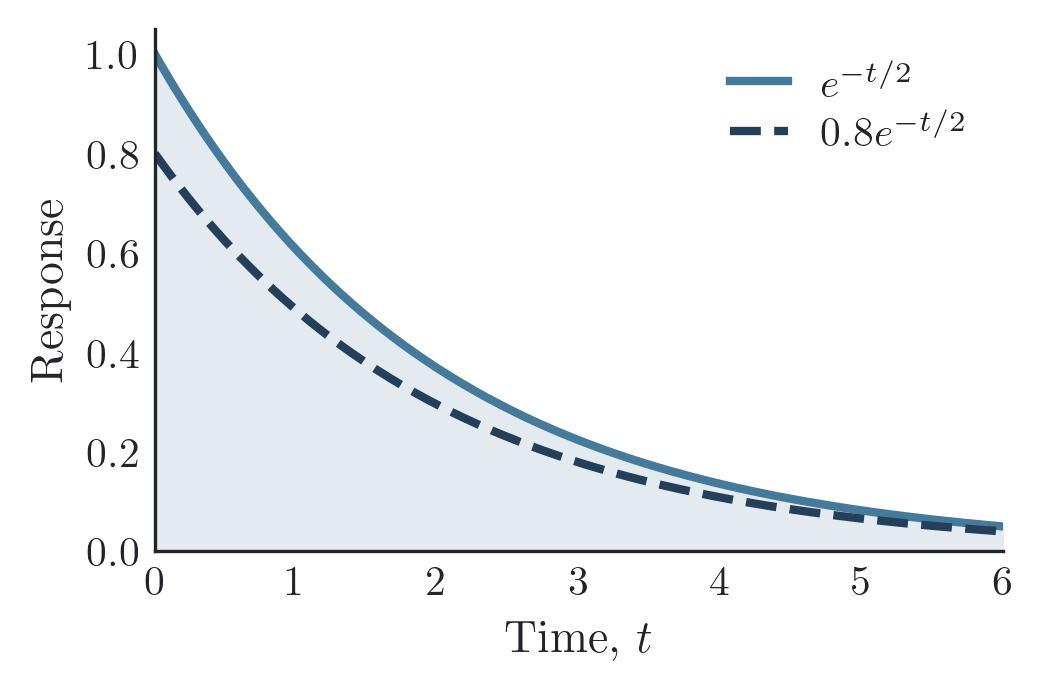
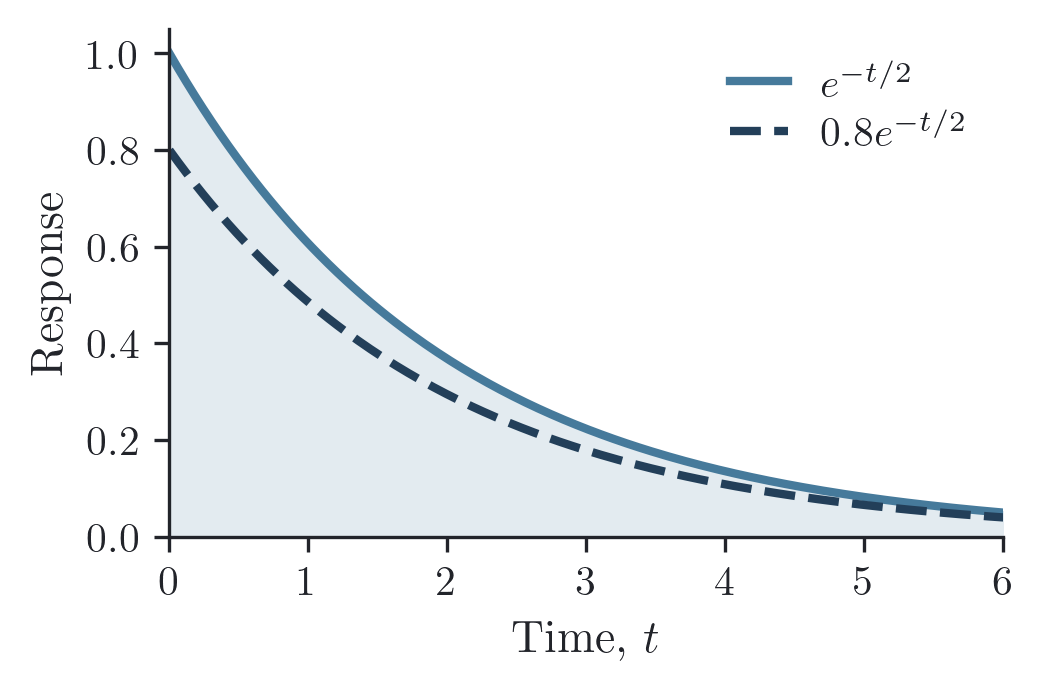
examples examples examplessssssssssssssssss

Changed region(s): [[0.0307, 0.0304, 0.9818, 0.8826], [0.4909, 0.8826, 0.6443, 0.9435]]

diff --git a/scripts/render_style_comparison.py b/scripts/render_style_comparison.py
@@ -1,0 +1,45 @@
+"""Render default Matplotlib beside reiplotlib for the README opening."""
+
+from pathlib import Path
+
+import matplotlib as mpl
+
+mpl.use("Agg")
+
+import matplotlib.pyplot as plt
+import numpy as np
+
+import reiplotlib as rpl
+
+
+def main():
+    destination = Path(__file__).resolve().parents[1] / "docs/images"
+    destination.mkdir(parents=True, exist_ok=True)
+    x = np.linspace(0, 10, 300)
+    with mpl.rc_context(mpl.rcParamsDefault):
+        fig = plt.figure(figsize=(7.5, 2.6), layout="constrained")
+        grid = fig.add_gridspec(1, 3, width_ratios=(1, 0.08, 1))
+        default = fig.add_subplot(grid[0])
+        arrow = fig.add_subplot(grid[1])
+        arrow.axis("off")
+        arrow.text(0.5, 0.5, r"$\rightarrow$", ha="center", va="center", fontsize=20)
+        for tau in (1.5, 3.0, 6.0):
+            y = np.exp(-x / tau) * np.cos(np.pi * x / 2)
+            default.plot(x, y, label=rf"$\tau={tau:g}$")
+        default.set(title="Matplotlib", xlabel=r"Time, $t$", ylabel=r"$C(t)$")
+        default.legend()
+
+        with rpl.rc_context():
+            styled = fig.add_subplot(grid[2])
+            for tau in (1.5, 3.0, 6.0):
+                y = np.exp(-x / tau) * np.cos(np.pi * x / 2)
+                styled.plot(x, y, label=rf"$\tau={tau:g}$")
+            styled.set(title="reiplotlib", xlabel=r"Time, $t$", ylabel=r"$C(t)$")
+            rpl.clean_axes(styled, grid=False)
+            rpl.clean_legend(styled)
+            rpl.export.savefig(fig, destination / "style-comparison", formats=("png",))
+        plt.close(fig)
+
+
+if __name__ == "__main__":
+    main()

diff --git a/src/reiplotlib/layouts.py b/src/reiplotlib/layouts.py
@@ -37,7 +37,11 @@ def size(
     unit: Unit = "pt",
     journal: Journal = "prl",
 ) -> tuple[float, float]:
-    """Return a figure size in inches."""
+    """Return a figure size in inches using a journal's column widths.
+
+    The only current journal preset is ``"prl"`` (the default). Numeric widths
+    use ``unit`` directly, independently of the journal preset.
+    """
 
     if isinstance(width, str):
         width_in = pt_to_in(JOURNAL_WIDTHS_PT[journal][width])
@@ -57,7 +61,12 @@ def subplots(
     journal: Journal = "prl",
     **kwargs: Any,
 ):
-    """Create matplotlib subplots with a publication-sized default figsize."""
+    """Create subplots with column widths selected by ``journal``.
+
+    ``journal="prl"`` is the default and only current preset. Width and aspect
+    describe the whole figure. Explicit ``figsize`` overrides the computed size;
+    remaining keywords pass through to Matplotlib.
+    """
 
     kwargs.setdefault(
         "figsize",

diff --git a/src/reiplotlib/axes.py b/src/reiplotlib/axes.py
@@ -20,12 +20,11 @@ def clean_axes(
     grid: bool = True,
     legend: bool = True,
 ) -> Axes:
-    """Hide unused spines, soften ticks, and optionally clean the legend."""
+    """Hide unused spines and optionally clean the legend, preserving ticks."""
 
     visible = set(keep)
     for side, spine in ax.spines.items():
         spine.set_visible(side in visible)
-    ax.tick_params(length=0)
     ax.grid(grid)
 
     if legend:

diff --git a/scripts/render_example.py b/scripts/render_example.py
@@ -28,6 +28,7 @@ def main():
                 ("### Your own color", "custom-color"),
                 ("### Shaded bands", "shading"),
                 ("### Error bars", "errorbars"),
+                ("### Visible limits", "autoscale"),
             ):
                 section = readme.split(heading + "\n", 1)[1]
                 example = section.split("```python\n", 1)[1].split("```", 1)[0]

diff --git a/README.md b/README.md
@@ -6,6 +6,8 @@ axes and add the pieces you need.
 
 Part of **Reiko Studio**.
 
+![The same damped oscillations with default Matplotlib on the left and reiplotlib styling on the right](docs/images/style-comparison.png)
+
 ## Installation
 
 ```bash
@@ -46,8 +48,6 @@ with rpl.rc_context({"text.usetex": True}):
     rpl.clean_legend(ax, ncols=3, loc="upper right")
     rpl.export.savefig(fig, "figures/response")
 ```
-
-![Damped oscillations rendered with LaTeX and Grove colors](docs/images/response.png)
 
 Run this with a working LaTeX installation to save `figures/response.png` and
 `figures/response.pdf`. `rc_context()` restores your Matplotlib settings when the
@@ -152,16 +152,18 @@ ordinary color strings and work directly with Matplotlib.
 
 ## Size and style
 
-`layouts.subplots()` uses PRL single- and double-column widths. `aspect` is height
-divided by width; other arguments pass through to Matplotlib.
+`layouts.subplots()` accepts a `journal` preset and single- or double-column
+widths. PRL (`journal="prl"`) is the default and currently the only preset;
+more journal sizes are planned. `aspect` is height divided by width; other
+arguments pass through to Matplotlib.
 
 ![Figure sizes drawn to a common scale: single column, double column with two panels, and a custom size](docs/images/sizing.png)
 
 ```python
 from reiplotlib import layouts as layout
 
-fig, ax = layout.subplots(width="single", aspect=0.75)
-fig, axs = layout.subplots(1, 2, width="double", aspect=0.45)
+fig, ax = layout.subplots(journal="prl", width="single", aspect=0.75)
+fig, axs = layout.subplots(1, 2, journal="prl", width="double", aspect=0.45)
 fig, ax = layout.subplots(figsize=(3.3, 3.0))
 ```
 
@@ -169,7 +171,8 @@ Single-column width is 243 TeX points (3.36 inches); double-column width is
 486 points (6.72 inches). Width and aspect describe the whole figure, including
 all panels. The sketches use a common scale; dashed boxes indicate plot areas.
 
-An explicit `figsize` takes precedence. `layout.size("single", aspect=0.75)`
+An explicit `figsize` takes precedence.
+`layout.size("single", journal="prl", aspect=0.75)`
 returns dimensions in inches for use with `plt.subplots()`.
 These are figure canvas dimensions; tight cropping during export can change
 the saved bounds. Use `bbox_inches=None` when the exported size must be exact.
@@ -185,7 +188,7 @@ ax.fill_between(x, lo, hi, **o.fill(p.grove[0], alpha=0.2))
 Pass a color explicitly when using these presets; they carry their own color
 rather than advancing the axes cycle. Use `ax.plot(x, y)` for automatic colors.
 
-`rpl.clean_axes(ax, grid=False)` removes the top and right spines and tick marks.
+`rpl.clean_axes(ax, grid=False)` removes the top and right spines, keeping ticks.
 `rpl.clean_legend(ax)` makes a compact legend from labeled artists. For panels,
 use `rpl.label_panel(ax, "A")`; `rpl.percent_axis(ax, axis="y")` formats fractions
 as percentages.
@@ -267,12 +270,30 @@ at creation; recreate the artist to change the data.
 
 ### Visible limits
 
-To fit y limits to the visible x range:
+Setting x limits alone leaves Matplotlib's y range based on the full curve.
+Use `autoscale_y()` to fit the portion you are looking at:
 
 ```python
-ax.set_xlim(2, 8)
-rpl.autoscale_y(ax, margin=0.05)
+with rpl.rc_context({"text.usetex": True}):
+    fig, axes = layout.subplots(1, 2, width="double", aspect=0.38,
+                               layout="constrained")
+    x = np.linspace(0, 10, 400)
+    y = 8 * np.exp(-x) + 0.15 * np.sin(3 * x)
+
+    for ax in axes:
+        ax.plot(x, y)
+        ax.set(xlim=(4, 10), xlabel=r"Time, $t$")
+        rpl.clean_axes(ax, grid=False)
+    axes[0].set(title="Default y limits", ylabel="Response")
+    axes[1].set_title("Visible-range y limits")
+    rpl.autoscale_y(axes[1], margin=0.08)
+    rpl.export.savefig(fig, "figures/autoscale")
 ```
+
+![The same visible x range with default y limits and automatic visible-range y limits](docs/images/autoscale.png)
+
+The large initial peak is outside both panels. Fitting the y limits to the
+visible data reveals the small oscillations without changing the curve.
 
 Shared-y panels combine their visible ranges, including error bars and crossing
 line segments. Manual y limits are preserved unless `override=True`. Lines,
